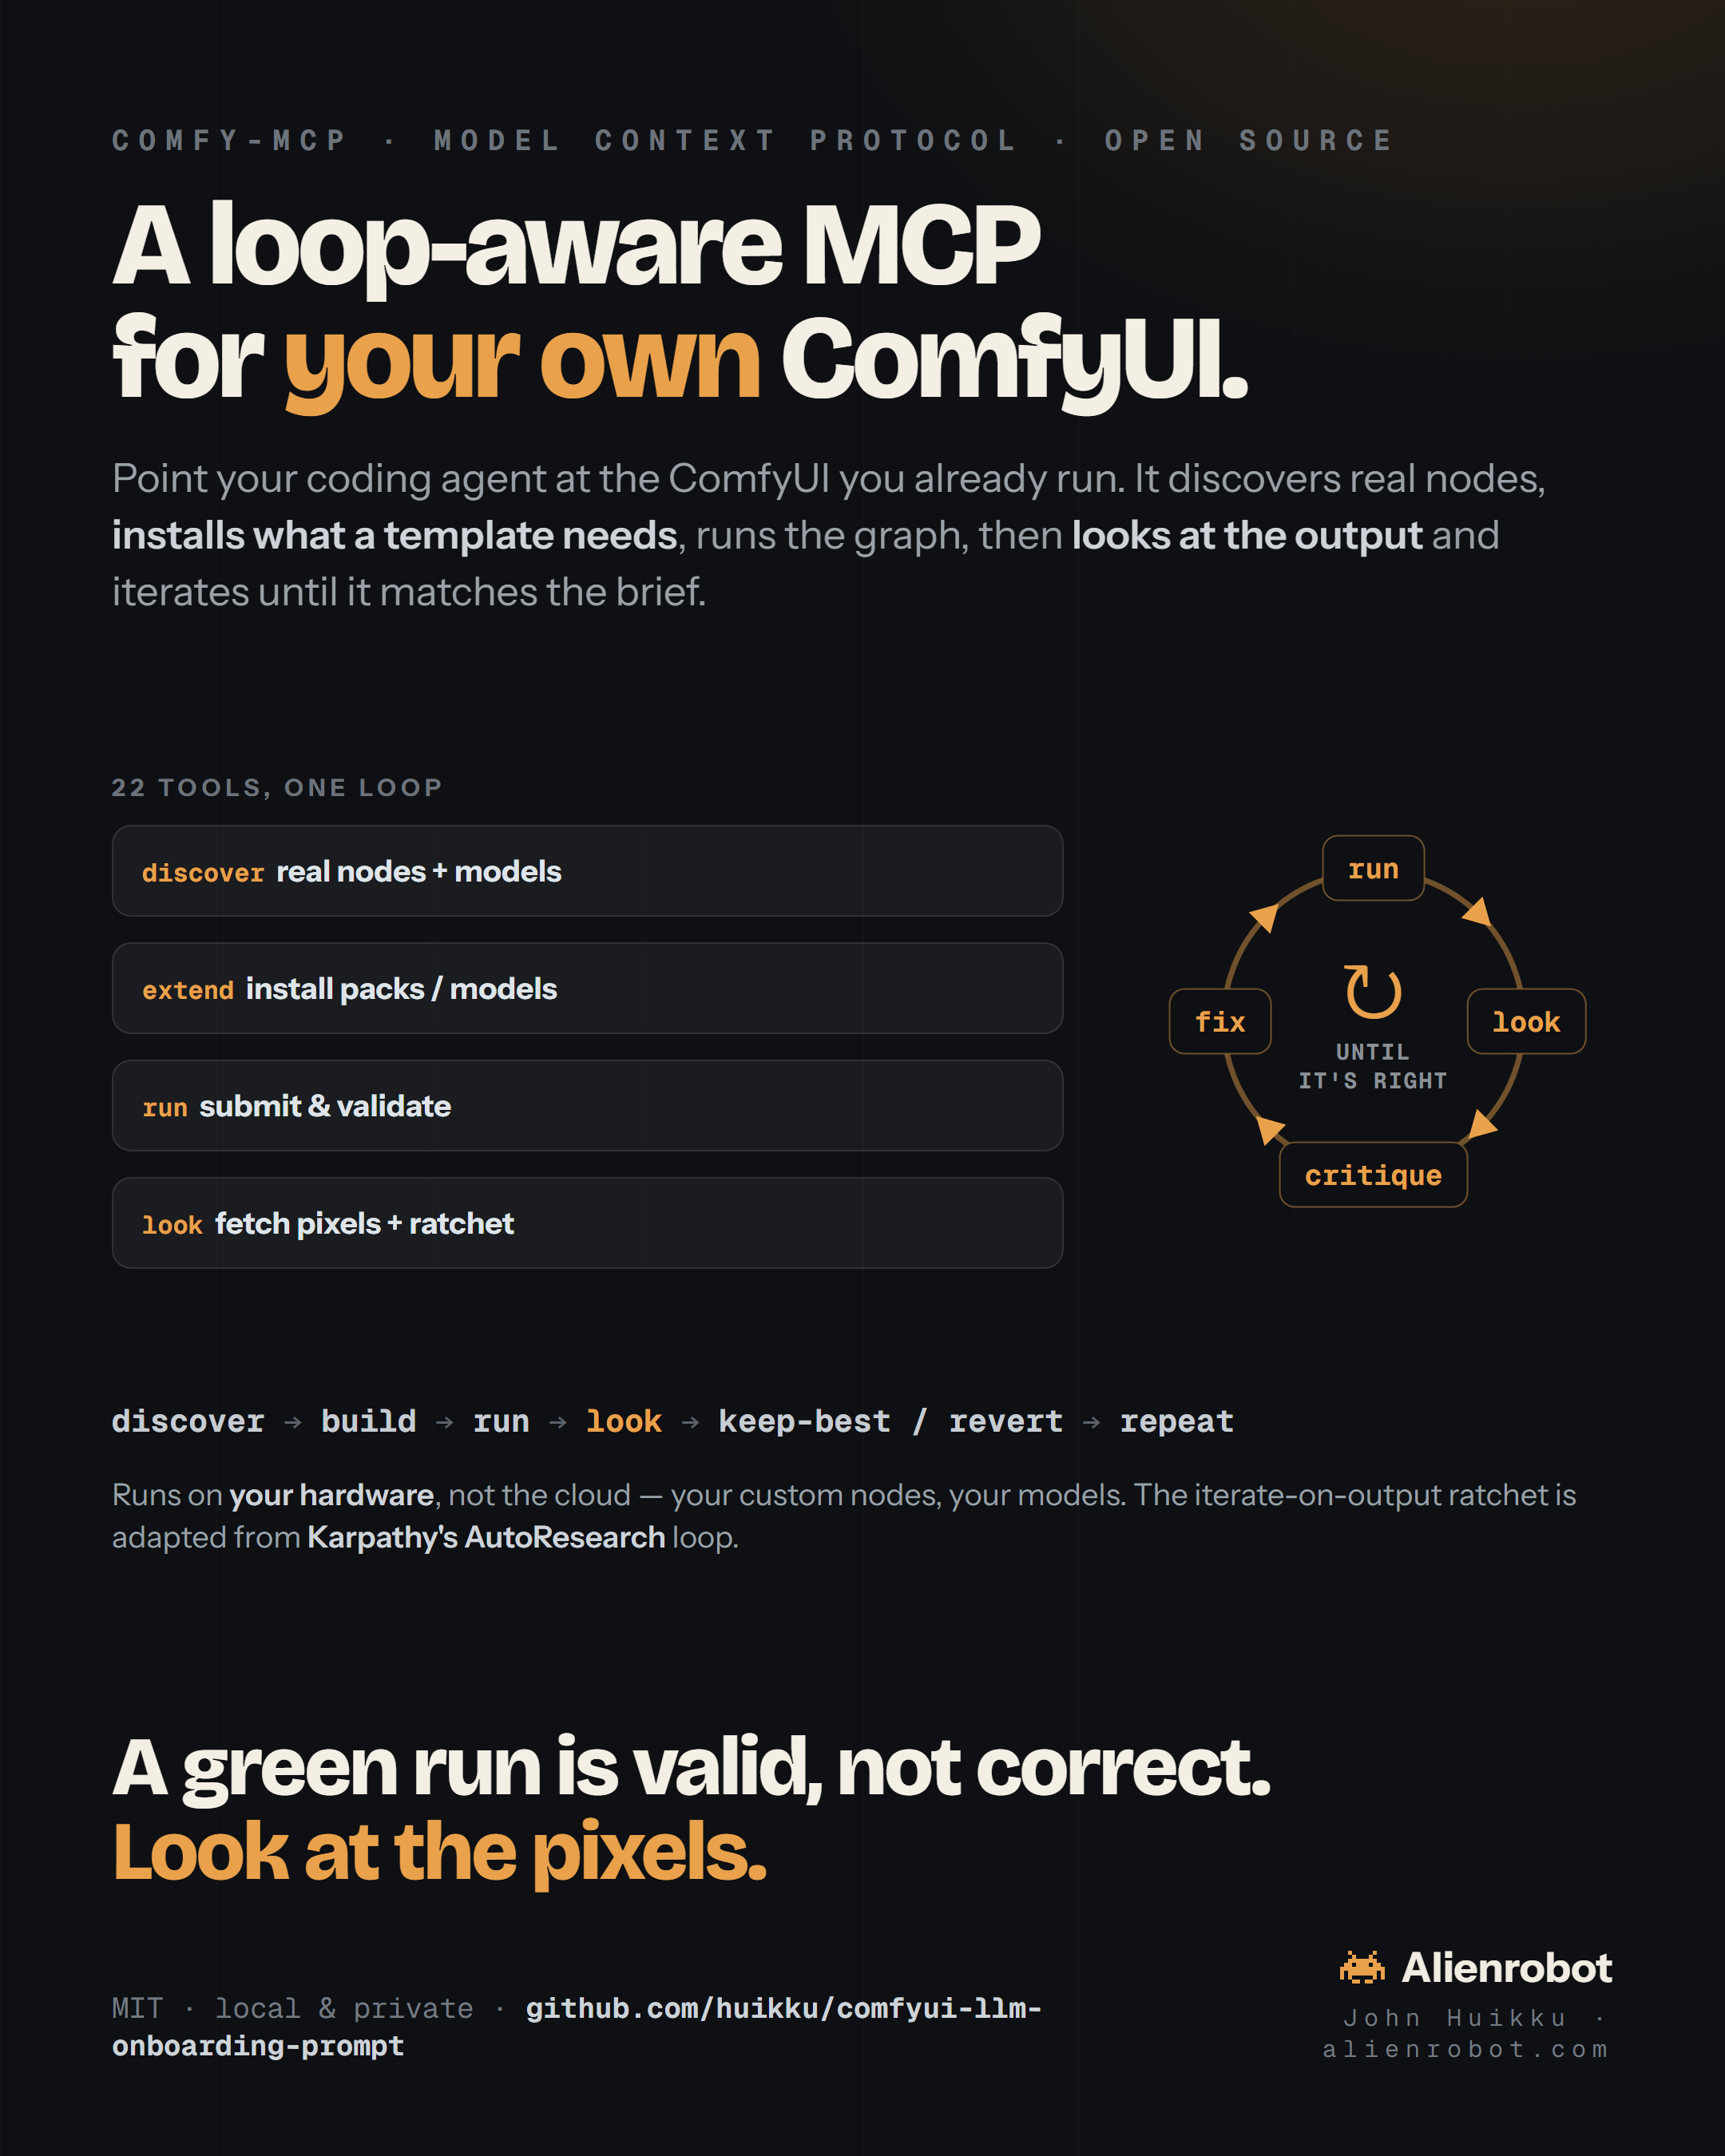
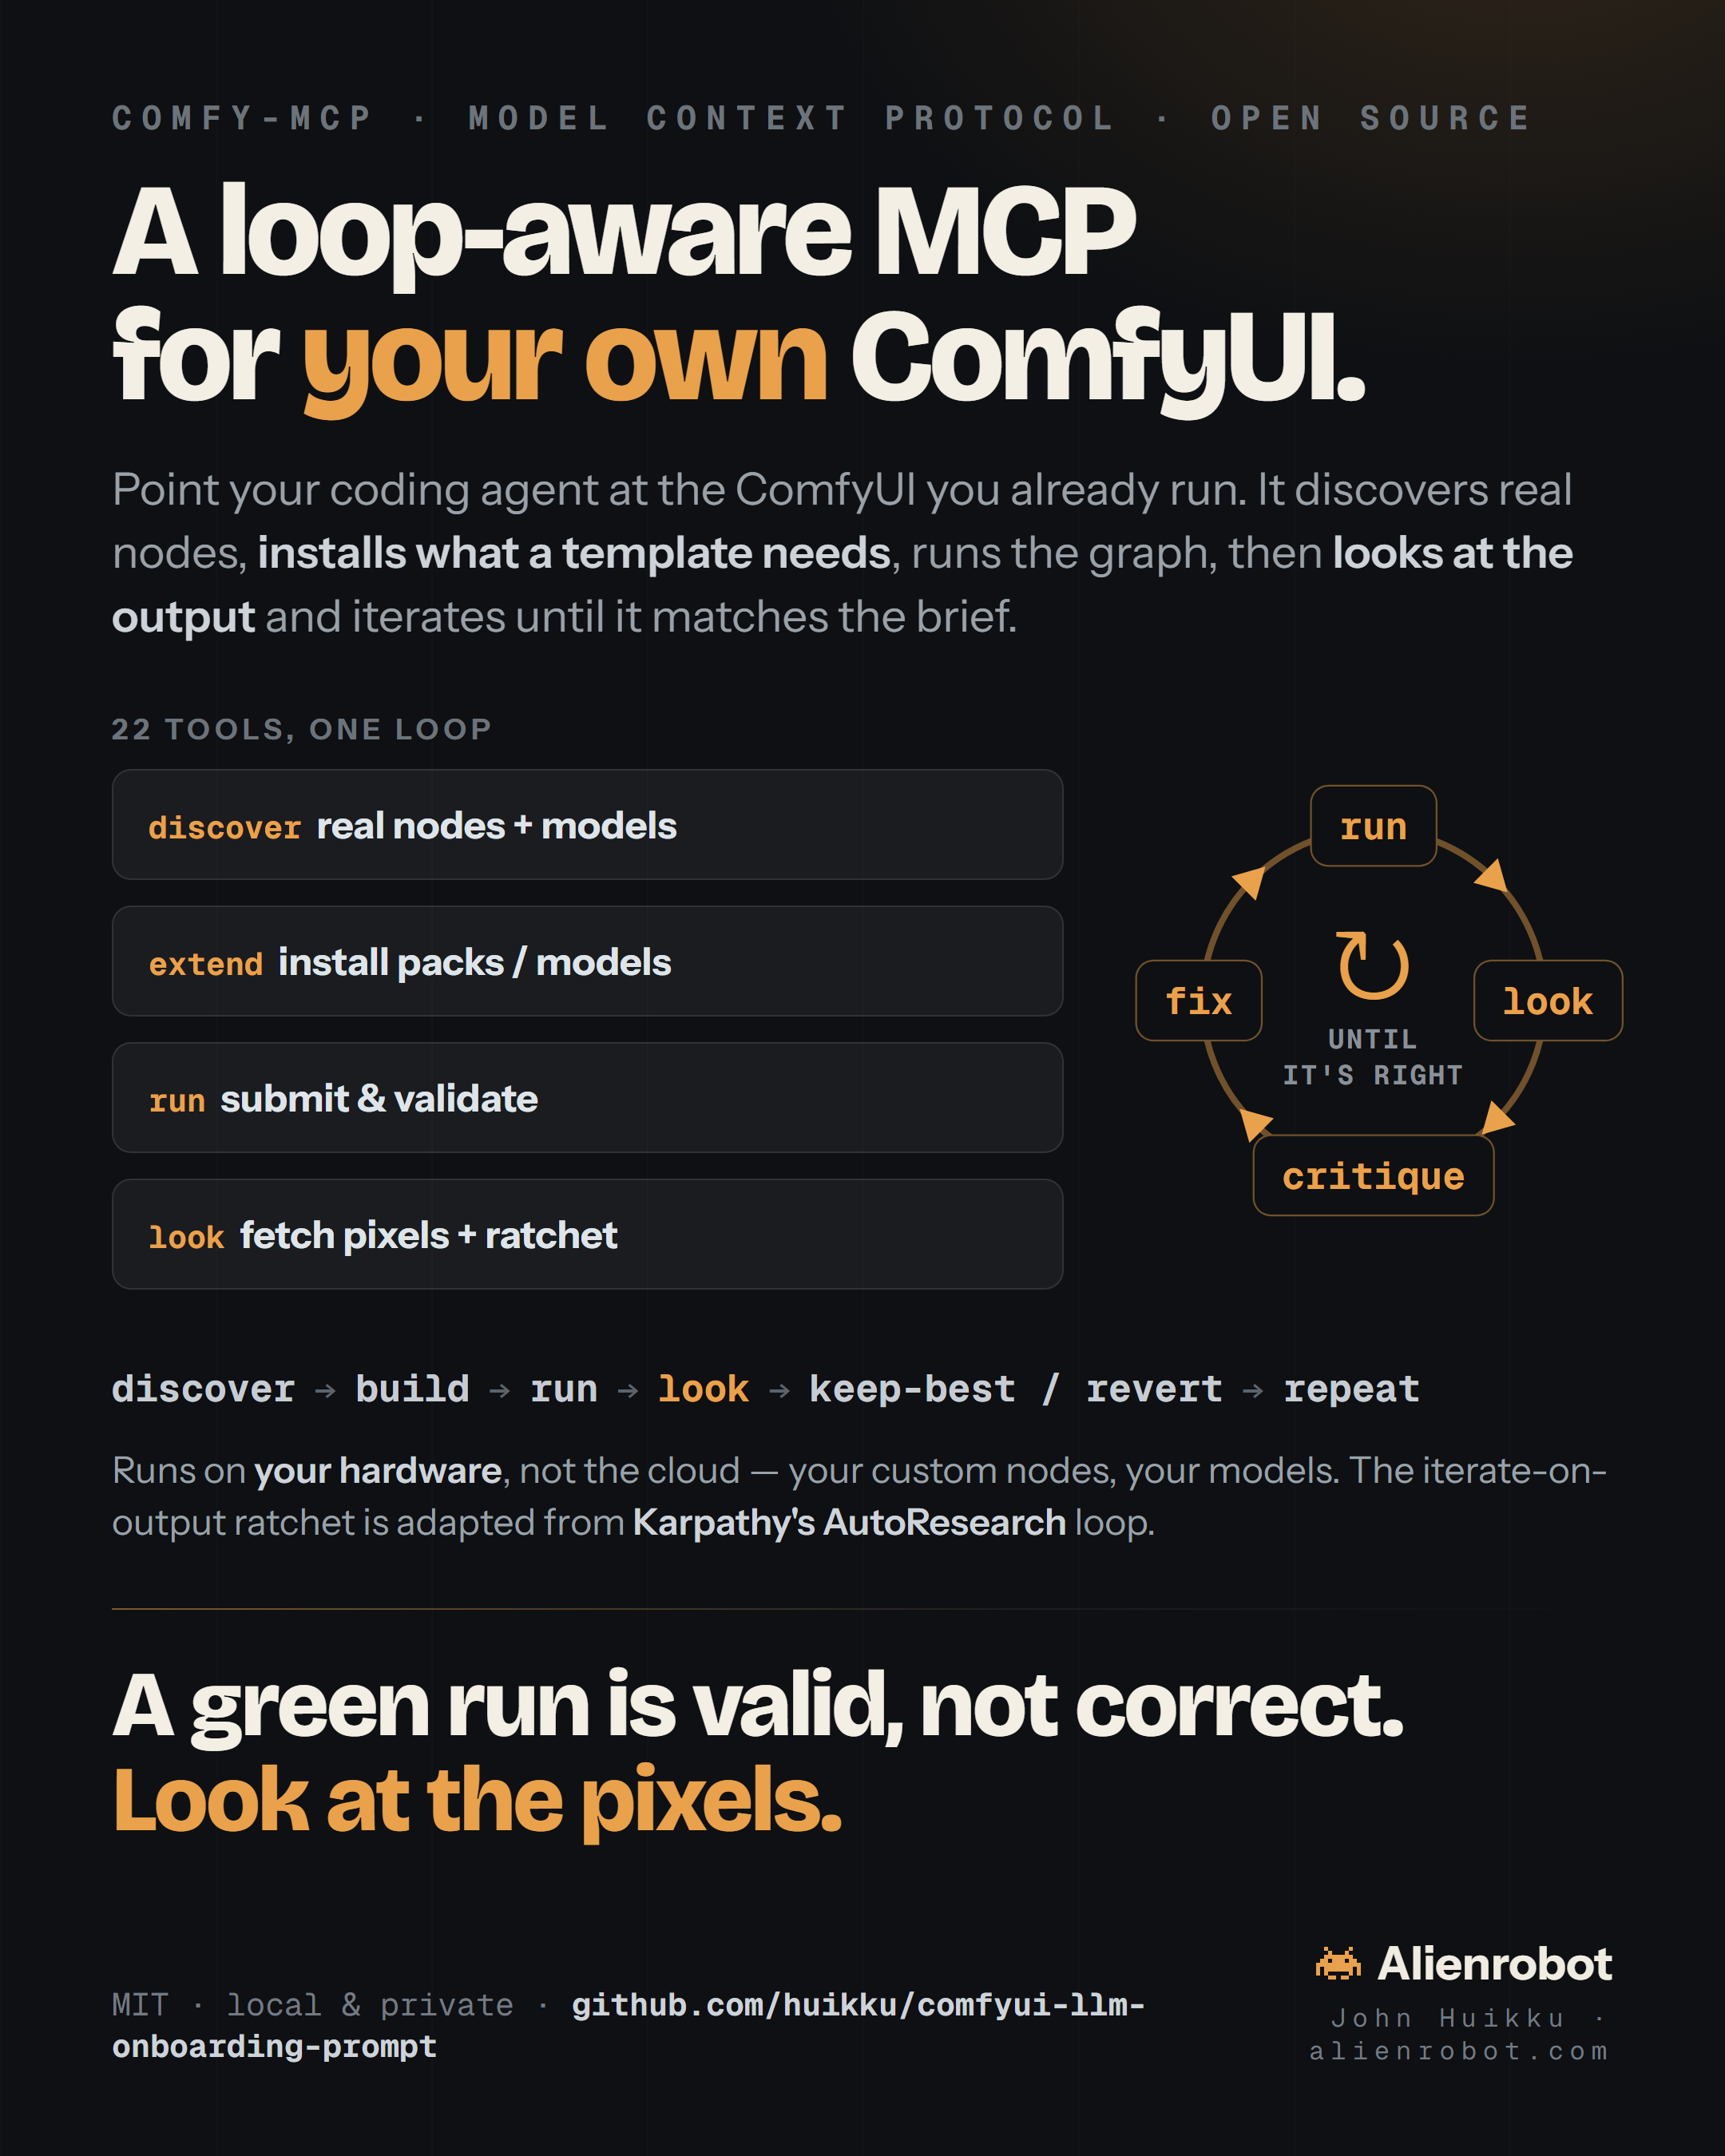
LinkedIn graphic: larger type, tighter spacing to fill the 4:5 frame
Scaled all text up ~20-25% (h1 74->82, sub 25->28, pills 19->24, strip 20->24,
closing line 52->58, loop labels + footer up) and rebalanced margins so the
canvas is filled without clipping the footer.

diff --git a/web/mcp-linkedin.html b/web/mcp-linkedin.html
@@ -8,43 +8,43 @@
   html,body{width:1080px;height:1350px}
   body{font-family:var(--font-body);background:#0e1013;color:#f4efe5;overflow:hidden}
   .mono{font-family:var(--font-mono)}
-  .card{position:relative;width:1080px;height:1350px;padding:76px 70px;display:flex;flex-direction:column}
+  .card{position:relative;width:1080px;height:1350px;padding:60px 70px 56px;display:flex;flex-direction:column}
   .card::before{content:"";position:absolute;inset:0;opacity:.5;background-image:linear-gradient(90deg,rgba(255,255,255,.028) 1px,transparent 1px);background-size:135px 100%}
   .card::after{content:"";position:absolute;inset:0;pointer-events:none;background:radial-gradient(760px 520px at 88% -6%,rgba(232,151,58,.16),transparent 60%)}
   .layer{position:relative;z-index:1;display:flex;flex-direction:column;height:100%}
-  .eyebrow{font-size:18px;font-weight:700;letter-spacing:6px;color:#6c737a;text-transform:uppercase}
-  h1{font-family:var(--font-display);margin-top:18px;font-size:74px;line-height:.96;font-weight:800;letter-spacing:-2.5px;color:#f4efe5}
+  .eyebrow{font-size:21px;font-weight:700;letter-spacing:6px;color:#6c737a;text-transform:uppercase}
+  h1{font-family:var(--font-display);margin-top:18px;font-size:82px;line-height:.96;font-weight:800;letter-spacing:-2.5px;color:#f4efe5}
   h1 .amber{color:#E9A14B}
-  .sub{margin-top:22px;font-size:25px;line-height:1.42;color:#9aa1a8;max-width:900px}
+  .sub{margin-top:24px;font-size:28px;line-height:1.42;color:#9aa1a8;max-width:1000px}
   .sub b{color:#cdd3d9;font-weight:600}
 
-  .hero{margin-top:96px;display:flex;align-items:center;gap:44px}
+  .hero{margin-top:40px;display:flex;align-items:center;gap:44px}
   .stack{display:flex;flex-direction:column;gap:16px;flex:1}
-  .grp{font-size:15px;font-weight:700;letter-spacing:3px;color:#6c737a;text-transform:uppercase;margin-bottom:-2px}
-  .pill{font-size:19px;font-weight:700;color:#dfe4e9;padding:16px 18px;border-radius:12px;background:rgba(255,255,255,.05);border:1px solid rgba(255,255,255,.10)}
-  .pill .k{font-family:var(--font-mono);color:#E9A14B;font-size:16px}
+  .grp{font-size:18px;font-weight:700;letter-spacing:3px;color:#6c737a;text-transform:uppercase;margin-bottom:-2px}
+  .pill{font-size:24px;font-weight:700;color:#dfe4e9;padding:19px 22px;border-radius:12px;background:rgba(255,255,255,.05);border:1px solid rgba(255,255,255,.10)}
+  .pill .k{font-family:var(--font-mono);color:#E9A14B;font-size:20px}
 
-  .loop{position:relative;width:300px;height:300px;flex:none}
+  .loop{position:relative;width:300px;height:300px;flex:none;transform:scale(1.14);transform-origin:center}
   .loop svg{position:absolute;inset:0}
-  .node{position:absolute;transform:translate(-50%,-50%);font-family:var(--font-mono);font-size:18px;font-weight:700;color:#E9A14B;background:#0e1013;padding:8px 15px;border-radius:10px;border:1px solid rgba(233,161,75,.45);white-space:nowrap}
+  .node{position:absolute;transform:translate(-50%,-50%);font-family:var(--font-mono);font-size:21px;font-weight:700;color:#E9A14B;background:#0e1013;padding:8px 15px;border-radius:10px;border:1px solid rgba(233,161,75,.45);white-space:nowrap}
   .node.run{left:150px;top:54px}.node.look{left:246px;top:150px}.node.crit{left:150px;top:246px}.node.fix{left:54px;top:150px}
   .ctr{position:absolute;left:150px;top:150px;transform:translate(-50%,-50%);text-align:center}
-  .ctr .g{font-size:52px;line-height:1;color:#E9A14B}
-  .ctr .t{margin-top:4px;font-family:var(--font-mono);font-size:14px;font-weight:700;letter-spacing:1px;color:#8a9097;text-transform:uppercase}
+  .ctr .g{font-size:58px;line-height:1;color:#E9A14B}
+  .ctr .t{margin-top:4px;font-family:var(--font-mono);font-size:15px;font-weight:700;letter-spacing:1px;color:#8a9097;text-transform:uppercase}
 
-  .strip{margin-top:82px;font-family:var(--font-mono);font-size:20px;font-weight:700;color:#c6ccd2;display:flex;flex-wrap:wrap;gap:12px;align-items:center}
+  .strip{margin-top:46px;font-family:var(--font-mono);font-size:24px;font-weight:700;color:#c6ccd2;display:flex;flex-wrap:wrap;gap:12px;align-items:center}
   .strip .s{color:#5c636b}
   .strip .hot{color:#E9A14B}
-  .note{margin-top:20px;font-size:19px;color:#9aa1a8;line-height:1.4;max-width:920px}
+  .note{margin-top:20px;font-size:23px;color:#9aa1a8;line-height:1.4;max-width:1010px}
   .note b{color:#cdd3d9;font-weight:600}
-  .rule{margin-top:64px;height:1px;background:linear-gradient(90deg,rgba(233,161,75,.5),rgba(255,255,255,.06) 60%,transparent)}
-  .close{margin-top:40px;font-family:var(--font-display);font-size:52px;line-height:1.02;font-weight:800;letter-spacing:-1.5px;color:#f4efe5}
+  .rule{margin-top:38px;height:1px;background:linear-gradient(90deg,rgba(233,161,75,.5),rgba(255,255,255,.06) 60%,transparent)}
+  .close{margin-top:30px;font-family:var(--font-display);font-size:58px;line-height:1.02;font-weight:800;letter-spacing:-1.5px;color:#f4efe5}
   .close .amber{color:#E9A14B}
 
   .spacer{flex:1}
-  .foot{margin-top:30px;display:flex;align-items:flex-end;justify-content:space-between}
-  .foot .src{font-size:18px;color:#737a81}.foot .src b{color:#cdd3d9}
-  .brand{text-align:right}.brand .name{font-size:26px;font-weight:800;color:#f1ece2}.brand .tag{margin-top:6px;font-size:15px;letter-spacing:4px;color:#737a81}
+  .foot{margin-top:24px;display:flex;align-items:flex-end;justify-content:space-between}
+  .foot .src{font-size:20px;color:#737a81}.foot .src b{color:#cdd3d9}
+  .brand{text-align:right}.brand .name{font-size:29px;font-weight:800;color:#f1ece2}.brand .tag{margin-top:6px;font-size:16px;letter-spacing:4px;color:#737a81}
   .invader{width:28px;height:auto;color:var(--r1)}.nm{display:flex;align-items:center;justify-content:flex-end;gap:10px}
 </style></head>
 <body><div class="card"><div class="layer">